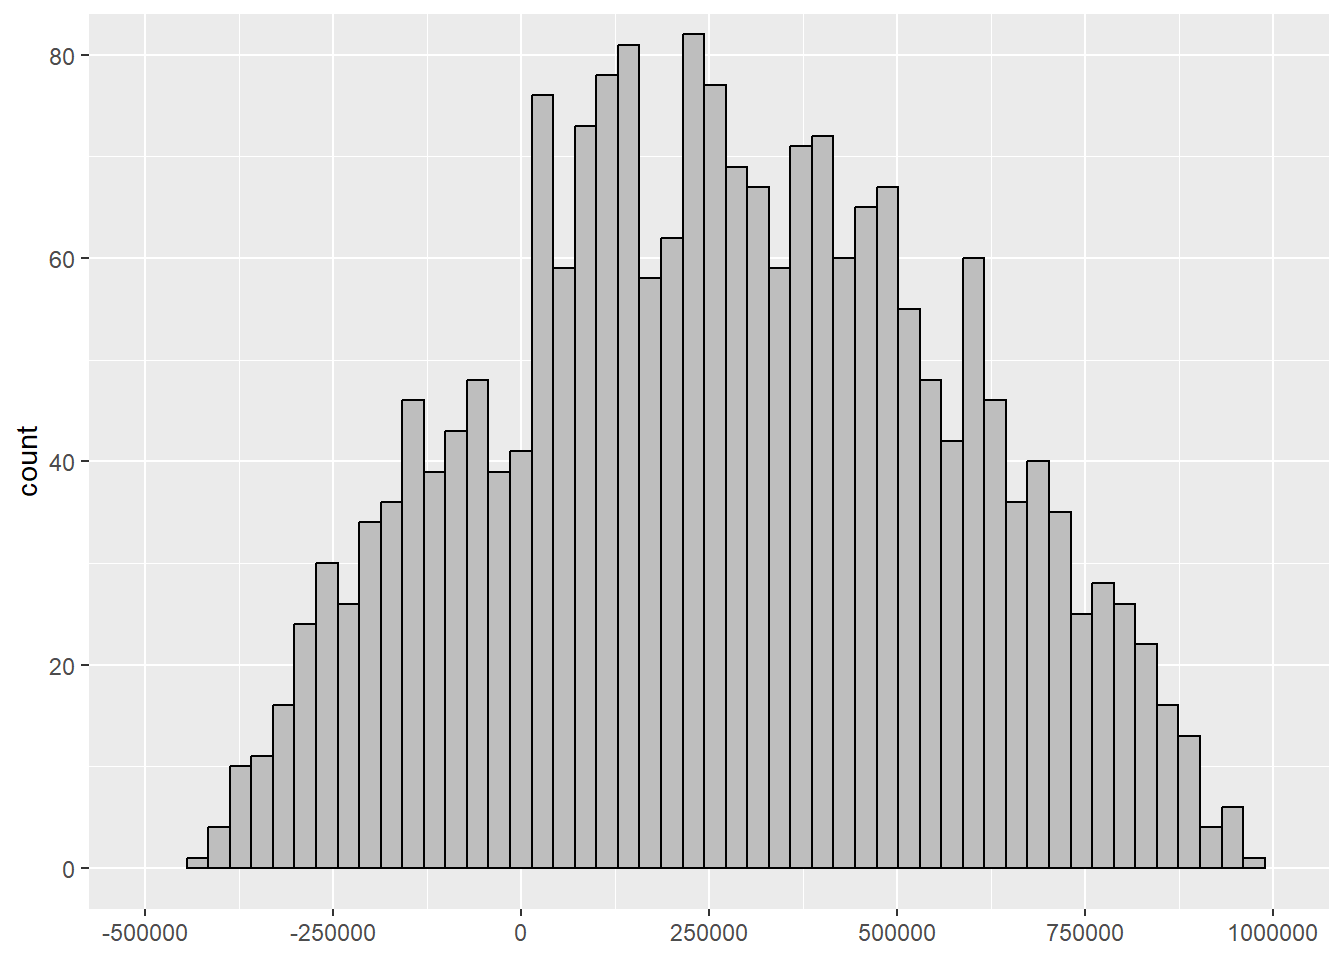
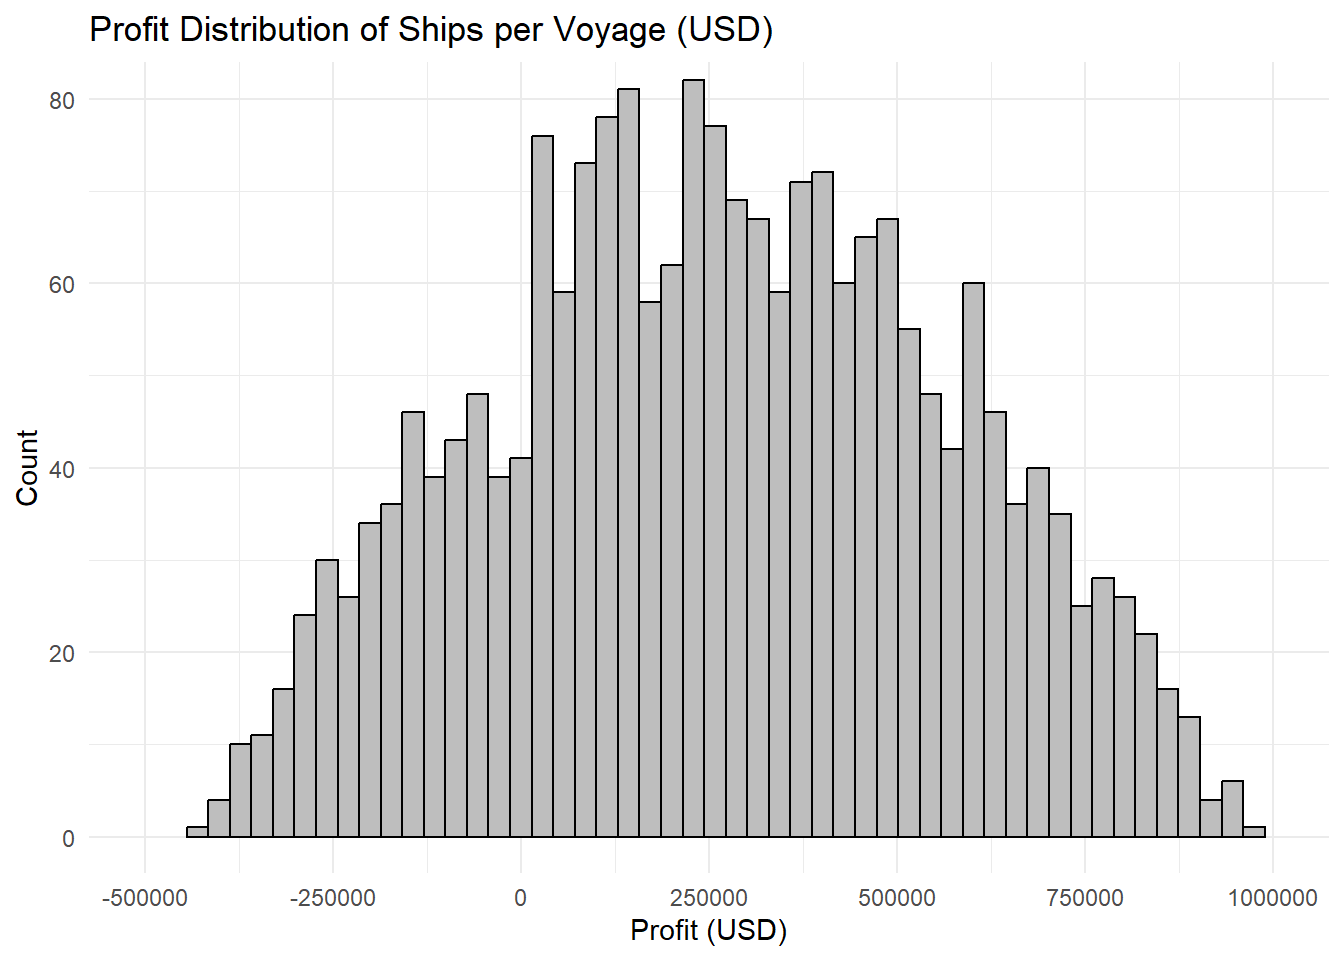
take home 1

diff --git a/_site/Take-home_Ex/Take-home_Ex01/Take-home_Ex01.html b/_site/Take-home_Ex/Take-home_Ex01/Take-home_Ex01.html
@@ -213,9 +213,10 @@ pre > code.sourceCode > span > a:first-child::before { text-decoration: underlin
   </ul></li>
   <li><a href="#data-preparation" id="toc-data-preparation" class="nav-link" data-scroll-target="#data-preparation">3 Data Preparation</a>
   <ul class="collapse">
-  <li><a href="#select-variables" id="toc-select-variables" class="nav-link" data-scroll-target="#select-variables">3.1 Select Variables</a></li>
-  </ul></li>
+  <li><a href="#select-variables" id="toc-select-variables" class="nav-link" data-scroll-target="#select-variables">3.1 Select Variables</a>
+  <ul class="collapse">
   <li><a href="#ship-dataframe" id="toc-ship-dataframe" class="nav-link" data-scroll-target="#ship-dataframe">Ship Dataframe</a></li>
+  </ul></li>
   <li><a href="#remove-columns" id="toc-remove-columns" class="nav-link" data-scroll-target="#remove-columns">3.2 Remove Columns</a></li>
   <li><a href="#handling-missing-value" id="toc-handling-missing-value" class="nav-link" data-scroll-target="#handling-missing-value">3.3 Handling Missing Value</a>
   <ul class="collapse">
@@ -224,6 +225,7 @@ pre > code.sourceCode > span > a:first-child::before { text-decoration: underlin
   </ul></li>
   <li><a href="#check-for-outliers-in-numerical-column" id="toc-check-for-outliers-in-numerical-column" class="nav-link" data-scroll-target="#check-for-outliers-in-numerical-column">3.4 Check for Outliers in Numerical Column</a></li>
   <li><a href="#derive-new-columns" id="toc-derive-new-columns" class="nav-link" data-scroll-target="#derive-new-columns">3.5 Derive New Columns</a></li>
+  </ul></li>
   <li><a href="#exploratory-data-analysis" id="toc-exploratory-data-analysis" class="nav-link" data-scroll-target="#exploratory-data-analysis">4 Exploratory Data Analysis</a>
   <ul class="collapse">
   <li><a href="#profit-analysis" id="toc-profit-analysis" class="nav-link" data-scroll-target="#profit-analysis">4.1 Profit Analysis</a></li>
@@ -348,16 +350,14 @@ date  (1): Date
 </div>
 </div>
 <p>For easier read, let us list down all the columns in the table below to analyse the data types and the description.</p>
-</section>
-</section>
-<section id="ship-dataframe" class="level1 tabset-pane">
-<h1>Ship Dataframe</h1>
+<section id="ship-dataframe" class="level3 tabset-pane">
+<h3 class="anchored" data-anchor-id="ship-dataframe">Ship Dataframe</h3>
 <div class="table table-striped table-hover table-bordered">
 <table class="caption-top table">
 <colgroup>
-<col style="width: 30%">
-<col style="width: 19%">
-<col style="width: 50%">
+<col style="width: 28%">
+<col style="width: 26%">
+<col style="width: 45%">
 </colgroup>
 <thead>
 <tr class="header">
@@ -460,6 +460,7 @@ date  (1): Date
 </tbody>
 </table>
 </div>
+</section>
 </section>
 <section id="remove-columns" class="level2">
 <h2 class="anchored" data-anchor-id="remove-columns">3.2 Remove Columns</h2>
@@ -720,6 +721,7 @@ $ Weekly_Voyage_Count     &lt;dbl&gt; 6, 9, 1, 8, 7, 3, 6, 2, 9, 4, 3, 7, 7, 2, 
 <span id="cb64-2"><a href="#cb64-2" aria-hidden="true" tabindex="-1"></a>  <span class="fu">mutate</span>(<span class="at">Profit_per_Voyage_USD =</span> Revenue_per_Voyage_USD <span class="sc">-</span> Operational_Cost_USD)</span></code><button title="Copy to Clipboard" class="code-copy-button"><i class="bi"></i></button></pre></div>
 </div>
 </section>
+</section>
 <section id="exploratory-data-analysis" class="level1">
 <h1>4 Exploratory Data Analysis</h1>
 <section id="profit-analysis" class="level2">
@@ -742,6 +744,7 @@ Adding another scale for x, which will replace the existing scale.</code></pre>
 </div>
 </div>
 </div>
+<p>The histogram shows a normal distribution ranging from USD -500,000 to USD 1,000,000. The distribution of profit is symmetrical with the highest count at USD 250,000. Normal distribution shows that it is uncommon to have a very high profit, and it is also uncommon to get extreme losses from ship journey. The x-axis shows there are presence of negative profit value, ranging from USD 0 to USD -500,000. Although the occurrence is not as often, is is still a questionable event of why certain ships incur losses in the ship operations. The histogram roughly highlights financial variability in the ship and maritime industry.</p>
 </div>
 <div id="tabset-1-2" class="tab-pane" role="tabpanel" aria-labelledby="tabset-1-2-tab">
 <div class="cell">
@@ -755,9 +758,13 @@ Adding another scale for x, which will replace the existing scale.</code></pre>
 <span id="cb66-8"><a href="#cb66-8" aria-hidden="true" tabindex="-1"></a>    <span class="at">breaks =</span> <span class="fu">seq</span>(<span class="sc">-</span><span class="dv">500000</span>, <span class="dv">1000000</span>, <span class="at">by =</span> <span class="dv">100000</span>),</span>
 <span id="cb66-9"><a href="#cb66-9" aria-hidden="true" tabindex="-1"></a>    <span class="at">labels =</span> scales<span class="sc">::</span>comma</span>
 <span id="cb66-10"><a href="#cb66-10" aria-hidden="true" tabindex="-1"></a>  ) <span class="sc">+</span></span>
-<span id="cb66-11"><a href="#cb66-11" aria-hidden="true" tabindex="-1"></a>  <span class="fu">scale_x_continuous</span>(<span class="cn">NULL</span>,               </span>
+<span id="cb66-11"><a href="#cb66-11" aria-hidden="true" tabindex="-1"></a>  <span class="fu">scale_x_continuous</span>(<span class="st">"Profit (USD)"</span>,               </span>
 <span id="cb66-12"><a href="#cb66-12" aria-hidden="true" tabindex="-1"></a>                     <span class="at">breaks =</span> <span class="fu">seq</span>(<span class="sc">-</span><span class="dv">500000</span>, <span class="dv">1000000</span>, <span class="at">by =</span> <span class="dv">250000</span>)) <span class="sc">+</span></span>
-<span id="cb66-13"><a href="#cb66-13" aria-hidden="true" tabindex="-1"></a>  <span class="fu">theme_gray</span>()</span></code><button title="Copy to Clipboard" class="code-copy-button"><i class="bi"></i></button></pre></div>
+<span id="cb66-13"><a href="#cb66-13" aria-hidden="true" tabindex="-1"></a>  <span class="fu">labs</span>(</span>
+<span id="cb66-14"><a href="#cb66-14" aria-hidden="true" tabindex="-1"></a>    <span class="at">title =</span> <span class="st">"Profit Distribution of Ships per Voyage (USD)"</span>,</span>
+<span id="cb66-15"><a href="#cb66-15" aria-hidden="true" tabindex="-1"></a>    <span class="at">y =</span> <span class="st">"Count"</span></span>
+<span id="cb66-16"><a href="#cb66-16" aria-hidden="true" tabindex="-1"></a>  ) <span class="sc">+</span> </span>
+<span id="cb66-17"><a href="#cb66-17" aria-hidden="true" tabindex="-1"></a>  <span class="fu">theme_minimal</span>()</span></code><button title="Copy to Clipboard" class="code-copy-button"><i class="bi"></i></button></pre></div>
 </div>
 </div>
 </div>
